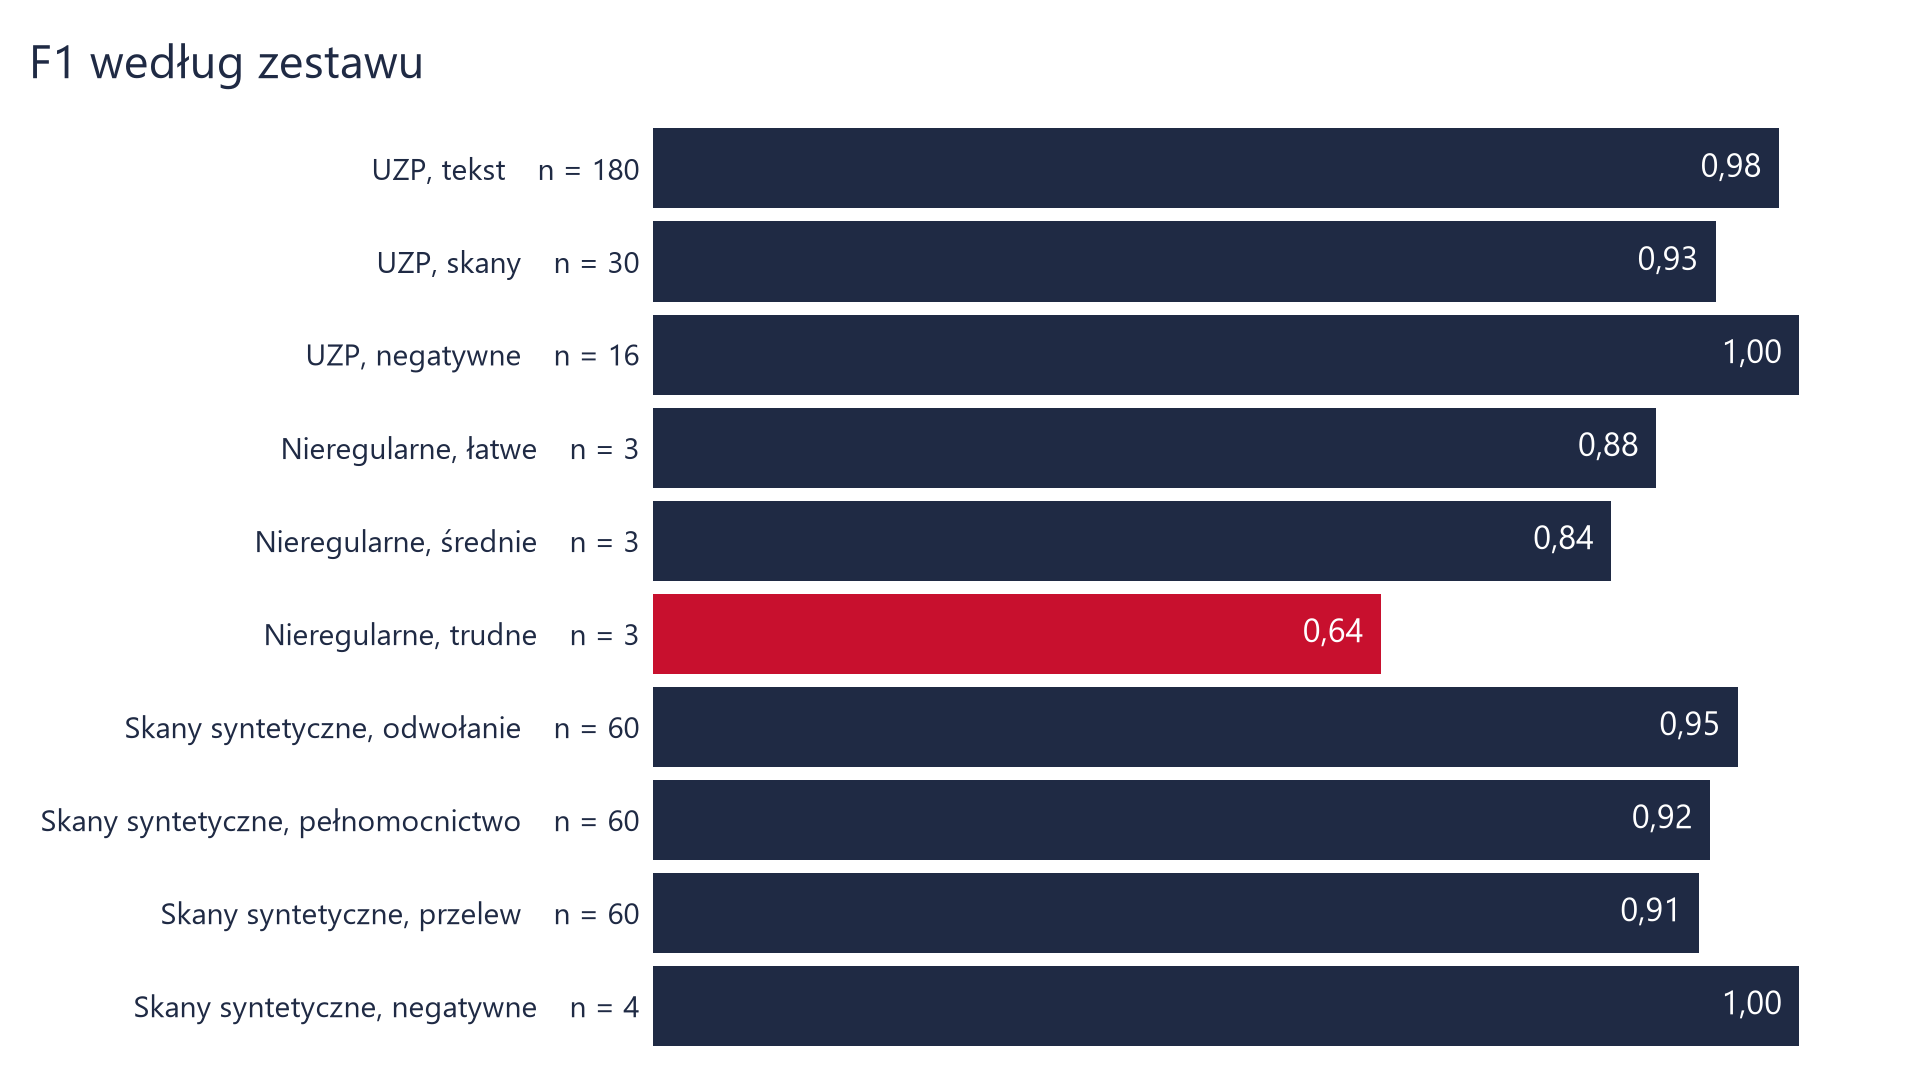
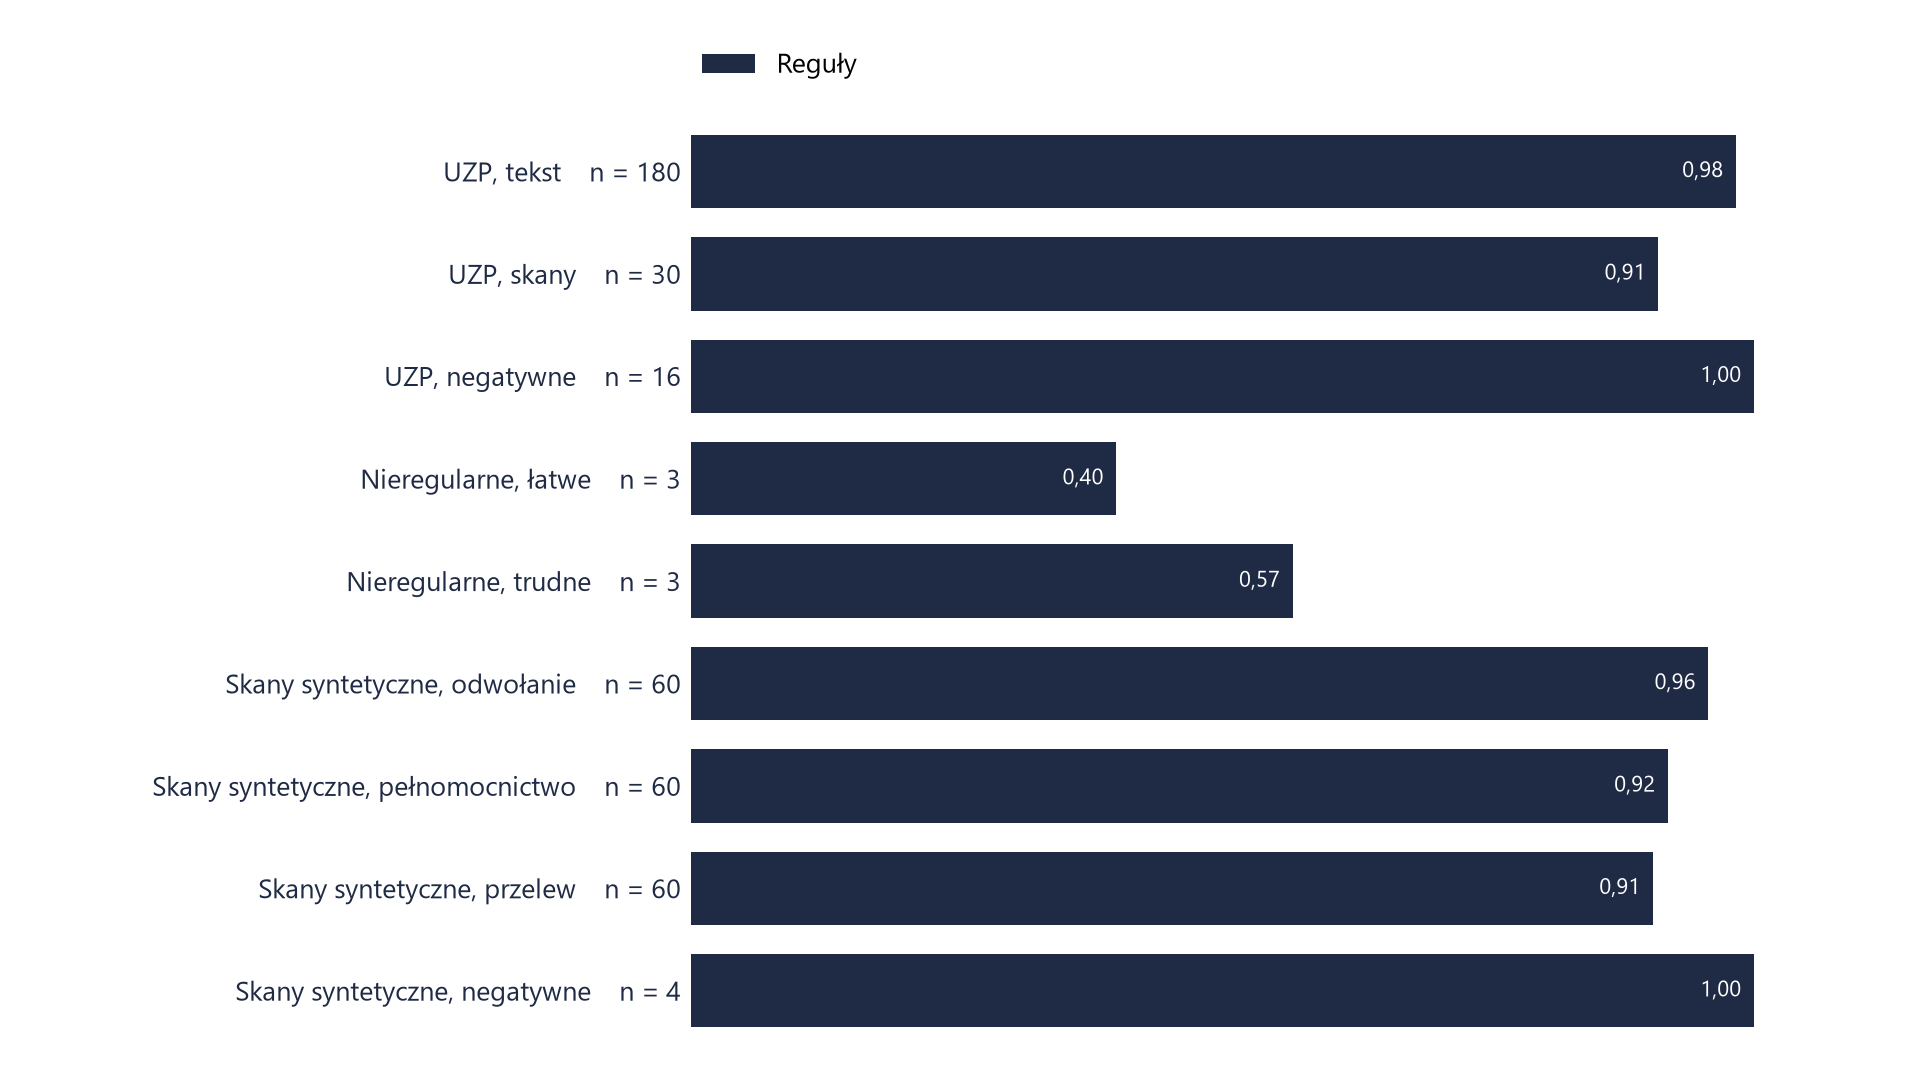
Add the deterministic dataset and pipeline slides.
Hybrid bars stay empty until a Mistral key is typed; the saved key is not used.

Changed region(s): [[0.0625, 0.0306, 0.9375, 0.9778], [0.0312, 0.6722, 0.2812, 0.7639], [0.0312, 0.0306, 0.2188, 0.0917]]

diff --git a/scripts/eval_datasets.py b/scripts/eval_datasets.py
@@ -300,8 +300,10 @@ def _draw(payload: dict) -> None:
     for spine in axis.spines.values():
         spine.set_visible(False)
     axis.tick_params(axis="y", length=0, pad=6)
-    axis.legend(frameon=False, fontsize=16, loc="lower right")
-    figure.subplots_adjust(left=0.36, right=0.98, top=0.98, bottom=0.03)
+    axis.legend(
+        frameon=False, fontsize=16, loc="lower left", bbox_to_anchor=(0.0, 1.02), ncol=2, borderaxespad=0,
+    )
+    figure.subplots_adjust(left=0.36, right=0.98, top=0.90, bottom=0.04)
     SLIDE.parent.mkdir(parents=True, exist_ok=True)
     figure.savefig(SLIDE, dpi=120, facecolor="white")
     plt.close(figure)
